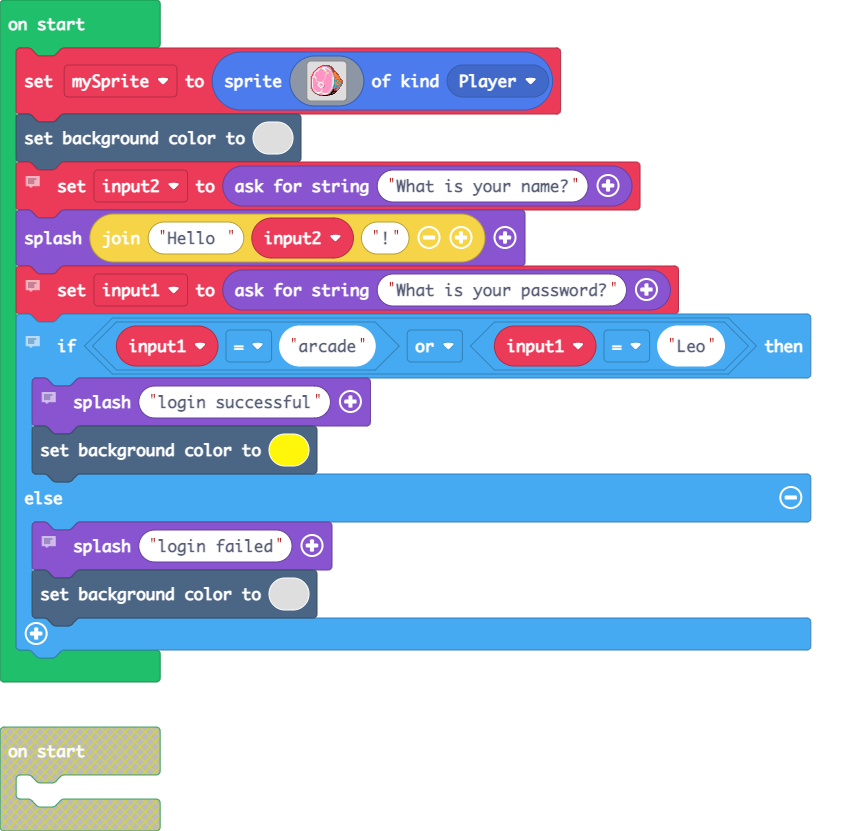
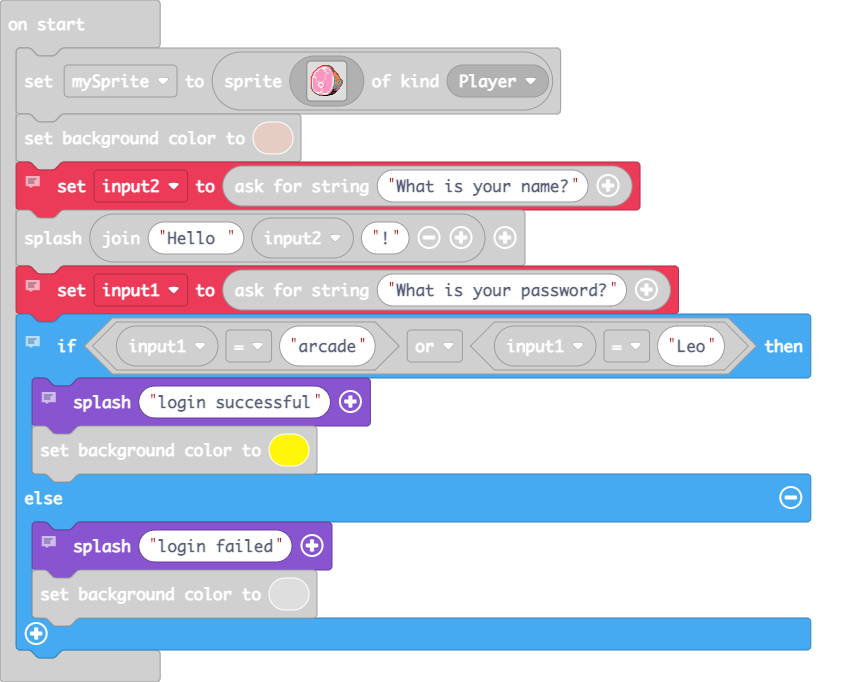
added background color

diff --git a/main.ts b/main.ts
@@ -32,7 +32,7 @@ let mySprite = sprites.create(img`
     ........eeeefffffee.............
     ................................
     `, SpriteKind.Player)
-scene.setBackgroundColor(0)
+scene.setBackgroundColor(13)
 // asks what is your name
 let input2 = game.askForString("What is your name?")
 game.splash("Hello " + input2 + "!")
